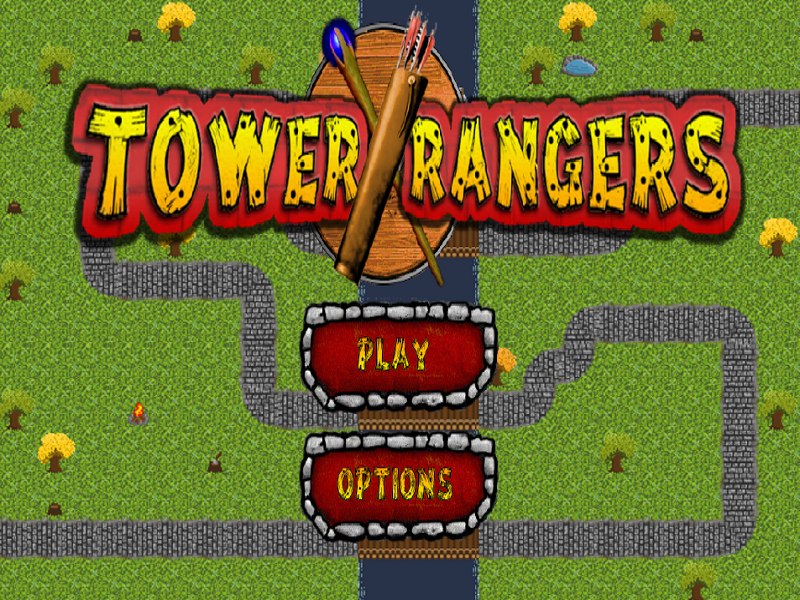
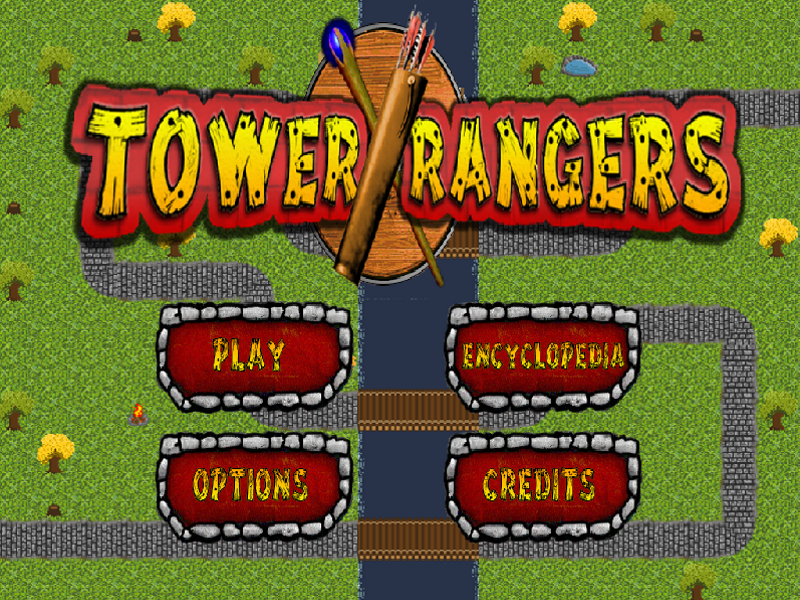
Guide Screen initial

diff --git a/tower-defense/tower-defense/src/com/git/tdgame/screen/GameScreen.java b/tower-defense/tower-defense/src/com/git/tdgame/screen/GameScreen.java
@@ -17,7 +17,7 @@ import com.badlogic.gdx.scenes.scene2d.Actor;
 import com.badlogic.gdx.scenes.scene2d.Stage;
 import com.badlogic.gdx.scenes.scene2d.ui.Image;
 import com.badlogic.gdx.utils.Array;
-import com.git.tdgame.TDGame;
+import com.git.tdgame.TRGame;
 import com.git.tdgame.data.DataProvider;
 import com.git.tdgame.gameActor.Enemy;
 import com.git.tdgame.gameActor.Gold;
@@ -35,13 +35,13 @@ import com.git.tdgame.guiActor.GameMenuButton.ButtonType;
 import com.git.tdgame.guiActor.InfoDisplay;
 import com.git.tdgame.guiActor.PauseButton;
 import com.git.tdgame.guiActor.PauseMenu;
-import com.git.tdgame.map.TDGameMapHelper;
+import com.git.tdgame.map.TRMapHelper;
 
 
 public class GameScreen implements Screen, InputProcessor{
 
 	// To access game functions
-	private TDGame game;
+	private TRGame game;
 	
 	private Tower hoveredTower;
 	private boolean isUpgradeDisplay = false;
@@ -63,7 +63,7 @@ public class GameScreen implements Screen, InputProcessor{
 	private HashMap<String, HashMap<String,String>> towerTypes;
 
 	// Map variables
-	private TDGameMapHelper tdGameMapHelper;
+	private TRMapHelper tdGameMapHelper;
 	private Array<Array<Vector2>> paths;
 	private Vector2 tileSize;
 	
@@ -93,7 +93,7 @@ public class GameScreen implements Screen, InputProcessor{
 	
 	private boolean isPaused;
 	
-	public GameScreen(TDGame game, LevelModel levelModel)
+	public GameScreen(TRGame game, LevelModel levelModel)
 	{
 		this.game = game;
 		this.levelModel = levelModel;
@@ -351,7 +351,7 @@ public class GameScreen implements Screen, InputProcessor{
 	{
 		Gdx.input.setInputProcessor(this);
 		// Map load
-		tdGameMapHelper = new TDGameMapHelper();
+		tdGameMapHelper = new TRMapHelper();
 		tdGameMapHelper.setPackerDirectory("data/world/level packfile");
 		tdGameMapHelper.loadMap(levelModel.getMapPath());
 		tileSize = new Vector2(tdGameMapHelper.getMap().tileWidth,tdGameMapHelper.getMap().tileHeight);

diff --git a/tower-defense/tower-defense/src/com/git/tdgame/TRGame.java b/tower-defense/tower-defense/src/com/git/tdgame/TRGame.java
@@ -6,23 +6,25 @@ import com.badlogic.gdx.Preferences;
 import com.git.tdgame.gameActor.level.LevelModel;
 import com.git.tdgame.screen.CreditsScreen;
 import com.git.tdgame.screen.GameScreen;
+import com.git.tdgame.screen.GuideScreen;
 import com.git.tdgame.screen.LevelSelectScreen;
 import com.git.tdgame.screen.MenuScreen;
 import com.git.tdgame.screen.OptionsScreen;
 
-public class TDGame extends Game {
+public class TRGame extends Game {
 	private MenuScreen menuScreen;
 	private LevelSelectScreen levelSelectScreen;
 	private GameScreen gameScreen;
 	private OptionsScreen optionsScreen;
 	private CreditsScreen creditsScreen;
+	private GuideScreen guideScreen;
 
 	private int screenWidth = 0;
 	private int screenHeight = 0;
 	private LevelModel selectedLevel;
 	private int unlockedLevels = 0;
 
-	public TDGame()
+	public TRGame()
 	{
 		super();
 	}
@@ -33,7 +35,7 @@ public class TDGame extends Game {
 	}
 
 
-	public TDGame(int width, int height)
+	public TRGame(int width, int height)
 	{
 		super();
 		screenWidth = width;
@@ -67,6 +69,12 @@ public class TDGame extends Game {
 	{
 		creditsScreen = new CreditsScreen(this);
 		setScreen(creditsScreen);
+	}
+	
+	public void goToGuideScreen()
+	{
+		guideScreen = new GuideScreen(this);
+		setScreen(guideScreen);
 	}
 	
 	public void setSelectedLevel(LevelModel selectedLevel)

diff --git a/tower-defense/tower-defense/src/com/git/tdgame/screen/MenuScreen.java b/tower-defense/tower-defense/src/com/git/tdgame/screen/MenuScreen.java
@@ -10,14 +10,14 @@ import com.badlogic.gdx.math.Vector2;
 import com.badlogic.gdx.scenes.scene2d.Actor;
 import com.badlogic.gdx.scenes.scene2d.Stage;
 import com.badlogic.gdx.scenes.scene2d.ui.Image;
-import com.git.tdgame.TDGame;
+import com.git.tdgame.TRGame;
 import com.git.tdgame.guiActor.MenuButton;
 import com.git.tdgame.guiActor.MenuButton.ButtonType;
 
 
 public class MenuScreen implements Screen, InputProcessor{
 
-	public TDGame game;
+	public TRGame game;
 	private Stage stage;
 	private Image splashImage;
 	private MenuButton playButton;
@@ -26,7 +26,7 @@ public class MenuScreen implements Screen, InputProcessor{
 	private MenuButton creditsButton;
 	private MenuButton hoveredButton;
 	
-	public MenuScreen(TDGame game)
+	public MenuScreen(TRGame game)
 	{
 		this.game = game;
 	}
@@ -159,7 +159,7 @@ public class MenuScreen implements Screen, InputProcessor{
 				game.goToOptionsScreen();
 			} else if(m.getType() == ButtonType.ENCYCLOPEDIA)
 			{
-				// To do : Go to encyclopedia screen
+				game.goToGuideScreen();
 			} else if(m.getType() == ButtonType.CREDITS)
 			{
 				game.goToCreditsScreen();

diff --git a/tower-defense/tower-defense/src/com/git/tdgame/screen/LevelSelectScreen.java b/tower-defense/tower-defense/src/com/git/tdgame/screen/LevelSelectScreen.java
@@ -13,7 +13,7 @@ import com.badlogic.gdx.scenes.scene2d.Actor;
 import com.badlogic.gdx.scenes.scene2d.Stage;
 import com.badlogic.gdx.scenes.scene2d.Touchable;
 import com.badlogic.gdx.scenes.scene2d.ui.Image;
-import com.git.tdgame.TDGame;
+import com.git.tdgame.TRGame;
 import com.git.tdgame.data.DataProvider;
 import com.git.tdgame.gameActor.level.Footprint;
 import com.git.tdgame.gameActor.level.LevelBox;
@@ -22,14 +22,14 @@ import com.git.tdgame.gameActor.level.LevelModel;
 
 public class LevelSelectScreen implements Screen, InputProcessor{
 
-	public TDGame game;
+	public TRGame game;
 	private Stage stage;
 	private List<LevelModel> levels;
 	private int unlockedLevels;
 	private Music levelScreenMusic;
 	private float volume;
 	
-	public LevelSelectScreen(TDGame game, int unlockedLevels)
+	public LevelSelectScreen(TRGame game, int unlockedLevels)
 	{
 		levels = DataProvider.getLevels();
 		this.game = game;

diff --git a/tower-defense/tower-defense/src/com/git/tdgame/screen/OptionsScreen.java b/tower-defense/tower-defense/src/com/git/tdgame/screen/OptionsScreen.java
@@ -10,13 +10,13 @@ import com.badlogic.gdx.math.Vector2;
 import com.badlogic.gdx.scenes.scene2d.Actor;
 import com.badlogic.gdx.scenes.scene2d.Stage;
 import com.badlogic.gdx.scenes.scene2d.ui.Image;
-import com.git.tdgame.TDGame;
+import com.git.tdgame.TRGame;
 import com.git.tdgame.guiActor.OptionsButton;
 
 
 public class OptionsScreen implements Screen, InputProcessor{
 
-	public TDGame game;
+	public TRGame game;
 	private Stage stage;
 	private Image splashImage;
 	
@@ -26,7 +26,7 @@ public class OptionsScreen implements Screen, InputProcessor{
 	private OptionsButton backButton;
 	private OptionsButton hoveredButton;
 	
-	public OptionsScreen(TDGame game)
+	public OptionsScreen(TRGame game)
 	{
 		this.game = game;
 	}

diff --git a/tower-defense/tower-defense-android/src/com/git/tdgame/MainActivity.java b/tower-defense/tower-defense-android/src/com/git/tdgame/MainActivity.java
@@ -7,7 +7,7 @@ import com.badlogic.gdx.backends.android.AndroidApplicationConfiguration;
 
 public class MainActivity extends AndroidApplication {
 	
-	private TDGame game;
+	private TRGame game;
     @Override
     public void onCreate(Bundle savedInstanceState) {
         super.onCreate(savedInstanceState);
@@ -15,11 +15,11 @@ public class MainActivity extends AndroidApplication {
         AndroidApplicationConfiguration cfg = new AndroidApplicationConfiguration();
         cfg.useGL20 = false;
         
-        game = new TDGame();
+        game = new TRGame();
         initialize(game, cfg);
     }
     
-    public TDGame getGameInstance(){
+    public TRGame getGameInstance(){
     	return game;
     }
 }

diff --git a/tower-defense/tower-defense/src/com/git/tdgame/guiActor/OptionsButton.java b/tower-defense/tower-defense/src/com/git/tdgame/guiActor/OptionsButton.java
@@ -51,6 +51,16 @@ public class OptionsButton extends Actor
         spriteClicked = new Sprite(textureClicked);
 	}
 	
+	public void changeTexture(String newTexture, String newTextureClicked, int newHeight, int newWidth)
+	{
+		texture = new Texture(Gdx.files.internal(newTexture));
+		textureClicked = new Texture(Gdx.files.internal(newTextureClicked));
+		setHeight(newHeight);
+		setWidth(newWidth);
+        sprite = new Sprite(texture);
+        spriteClicked = new Sprite(textureClicked);
+	}
+	
 	@Override
 	public void draw(SpriteBatch batch, float parentAlpha) {
 		

diff --git a/tower-defense/tower-defense/src/com/git/tdgame/map/TRMapHelper.java b/tower-defense/tower-defense/src/com/git/tdgame/map/TRMapHelper.java
@@ -10,7 +10,7 @@ import com.badlogic.gdx.graphics.g2d.tiled.TiledMap;
 import com.badlogic.gdx.math.Vector2;
 import com.badlogic.gdx.utils.Array;
 
-public class TDGameMapHelper {
+public class TRMapHelper {
 	private FileHandle packFileDirectory;
 	private OrthographicCamera camera;
 

diff --git a/tower-defense/tower-defense-desktop/src/com/git/tdgame/Main.java b/tower-defense/tower-defense-desktop/src/com/git/tdgame/Main.java
@@ -11,6 +11,6 @@ public class Main {
 		cfg.width = 800;
 		cfg.height = 600;
 		
-		new LwjglApplication(new TDGame(cfg.width, cfg.height), cfg);
+		new LwjglApplication(new TRGame(cfg.width, cfg.height), cfg);
 	}
 }
